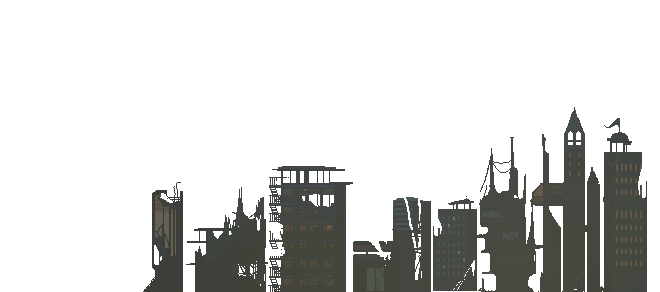
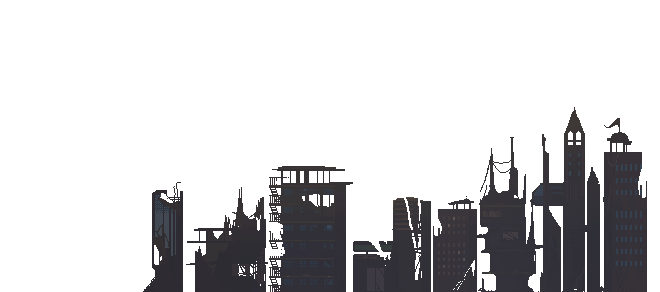
- changeable location of bg

diff --git a/Eudaemon/core/src/edu/cornell/gdiac/game/models/Level.java b/Eudaemon/core/src/edu/cornell/gdiac/game/models/Level.java
@@ -144,6 +144,11 @@ public class Level {
      * The y position of the camera in level coordinates
      */
     private float cameraY;
+
+    /**The drawing x-origin of the background */
+    private float backgroundOx;
+    /** The drawing y-origin of the background */
+    private float backgroundOy;
     //private MyGridGraph gridGraph;
 
     private boolean shouldShakeCamera;
@@ -490,6 +495,9 @@ public class Level {
         this.cameraWidth = properties.get("cameraWidth").getFloat("value");
         this.cameraHeight = properties.get("cameraHeight").getFloat("value");
         this.tileSize = properties.get("tileSize").getFloat("value");
+        this.scaleforBackground = properties.get("backgroundScale").getFloat("value");
+        this.backgroundOx = properties.get("backgroundOx").getFloat("value");
+        this.backgroundOy = properties.get("backgroundOy").getFloat("value");
 
 
         // Access the JsonValues for each layer in the tilemap
@@ -554,7 +562,6 @@ public class Level {
         this.background_L3 = new TextureRegion(assets.getEntry("background:L3", Texture.class));
         this.background_L4 = new TextureRegion(assets.getEntry("background:L4", Texture.class));
         this.background_L5 = new TextureRegion(assets.getEntry("background:L5", Texture.class));
-        this.scaleforBackground = 0.3f;
 
         // Define the world
         this.world = new World(new Vector2(0, gravity), true);
@@ -812,14 +819,12 @@ public class Level {
         float sty=levelToTileCoordinatesY(this.startY);
         float diffX=px-stx;
         float diffY=py-sty;
-        float ox = 0f;
-        float oy= 0f;
         //the background moves with the player,the farther back the faster the speed
-        canvas.draw(background_L1, Color.WHITE, ox + 30, oy, diffX, diffY, 0, this.scaleforBackground, this.scaleforBackground);
-        canvas.draw(background_L2, Color.WHITE, ox, oy, diffX, diffY, 0,  this.scaleforBackground, this.scaleforBackground);
-        canvas.draw(background_L3, Color.WHITE, ox, oy, diffX*0.7f, diffY*0.7f, 0,  this.scaleforBackground, this.scaleforBackground);
-        canvas.draw(background_L4, Color.WHITE, ox, oy, diffX*0.4f, diffY*0.4f, 0,  this.scaleforBackground, this.scaleforBackground);
-        canvas.draw(background_L5, Color.WHITE, ox-30, oy, diffX*0.1f, diffY*0.1f, 0,  this.scaleforBackground, this.scaleforBackground);
+        canvas.draw(background_L1, Color.WHITE, backgroundOx + 30, backgroundOy, diffX, diffY, 0, this.scaleforBackground, this.scaleforBackground);
+        canvas.draw(background_L2, Color.WHITE, backgroundOx, backgroundOy, diffX, diffY, 0,  this.scaleforBackground, this.scaleforBackground);
+        canvas.draw(background_L3, Color.WHITE, backgroundOx, backgroundOy, diffX*0.7f, diffY*0.7f, 0,  this.scaleforBackground, this.scaleforBackground);
+        canvas.draw(background_L4, Color.WHITE, backgroundOx, backgroundOy, diffX*0.4f, diffY*0.4f, 0,  this.scaleforBackground, this.scaleforBackground);
+        canvas.draw(background_L5, Color.WHITE, backgroundOx, backgroundOy, diffX*0.1f, diffY*0.1f, 0,  this.scaleforBackground, this.scaleforBackground);
 //        canvas.draw(background, Color.CLEAR, background.getRegionWidth()/2, background.getRegionHeight()/2, 0, 0, 1 / background.getRegionWidth(), 1/ background.getRegionHeight());
 
         //Drawing background 2 tiles
